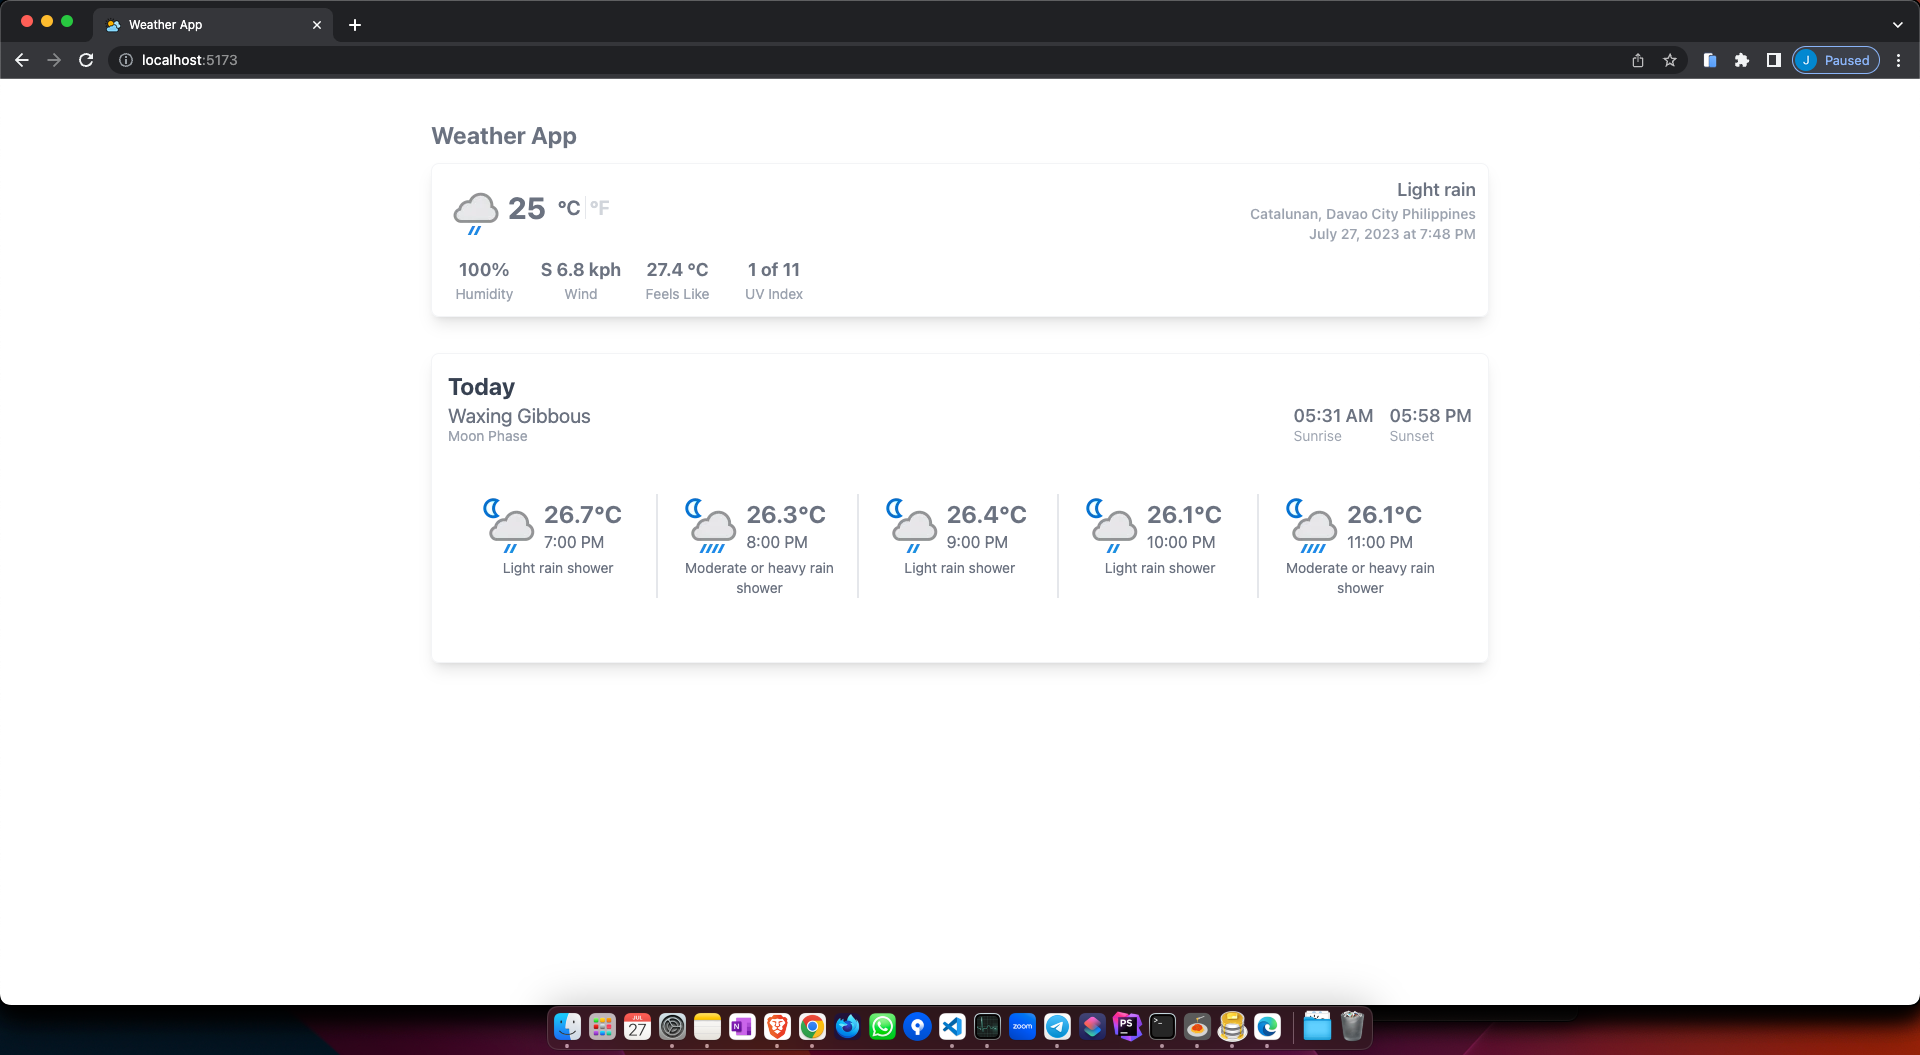
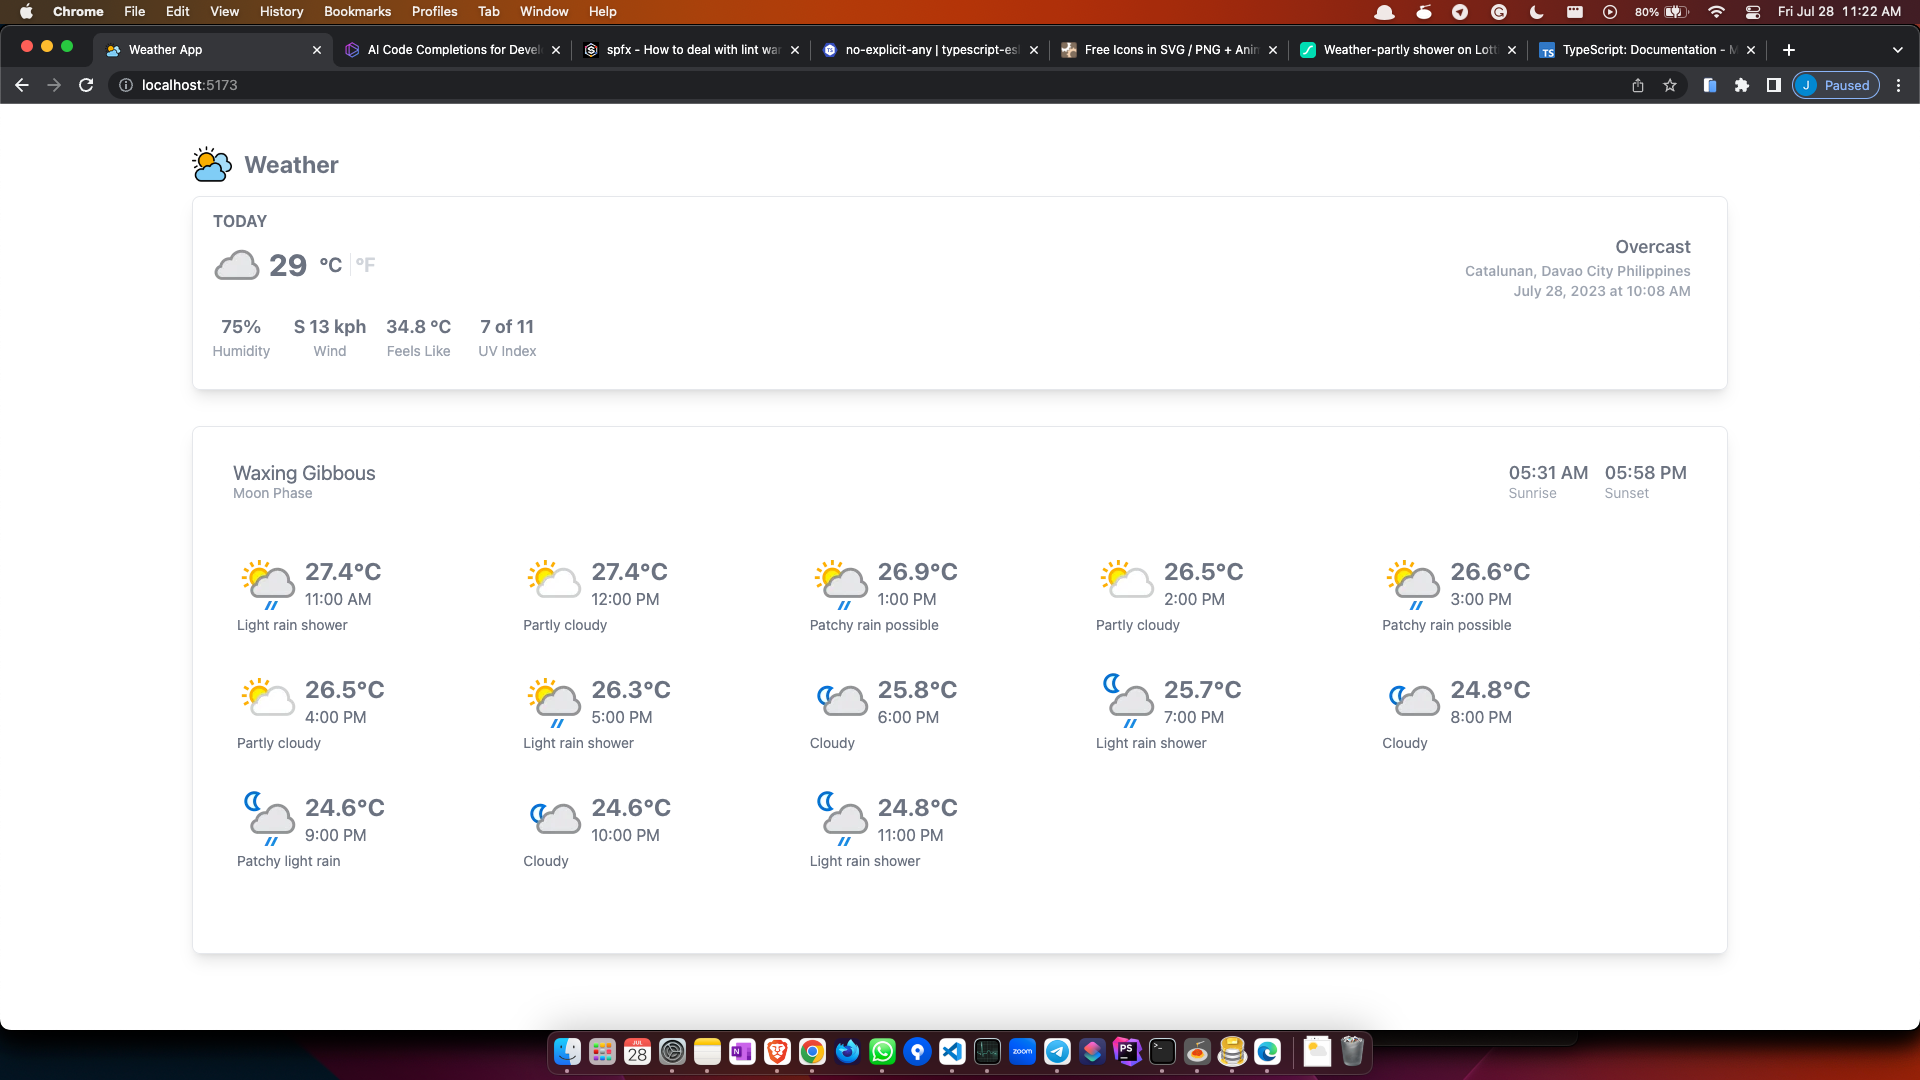
responsive UI

diff --git a/src/components/CurrentComponent.tsx b/src/components/CurrentComponent.tsx
@@ -1,11 +1,13 @@
+import { CurrentWeather, LocationObject } from "../types/weather-api-types";
 import TemperatureComponent from "./TemperatureComponent";
 import WeatherInfoComponent from "./WeatherInfoComponent";
+type SetTypeFunction = (type: string) => void;
 
 export default function CurrentComponent(props: {
   current: CurrentWeather;
   location: LocationObject;
   type: string;
-  setType: Function;
+  setType: SetTypeFunction;
 }) {
   const {
     current: {
@@ -16,7 +18,7 @@ export default function CurrentComponent(props: {
       humidity,
       feelslike_c,
       feelslike_f,
-      uv
+      uv,
     },
     type,
     setType,
@@ -25,47 +27,48 @@ export default function CurrentComponent(props: {
   const changeType = (val: string) => setType(val);
 
   return (
-    <div className="border shadow-lg border-gray-100 p-3 rounded-lg w-full">
-      <div className="grid grid-cols-2 gap-32">
-        <div className="flex flex-col">
-          <div className="flex flex-col md:flex-row space-x-3">
-            <div>
-              <div className="flex items-center">
-                <div>
-                  <img src={`https://${icon}`} />
-                </div>
-                <TemperatureComponent
-                  current={props.current}
-                  type={type}
-                  changeType={changeType}
-                />
+    <div className="border-transparent lg:border lg:shadow-lg border-gray-200 p-3 rounded-lg w-full">
+      <div className="pl-0 lg:pl-2">
+          <h1 className="text-base uppercase font-bold antialiased text-gray-500">Today</h1>
+        </div>
+      <div className="grid grid-cols-1 md:grid-cols-2 gap-x-32 pb-0 lg:pb-4">
+        <div className="flex flex-col md:flex-row space-x-3">
+          <div>
+            <div className="flex items-center justify-start">
+              <div>
+                <img src={`https://${icon}`} />
               </div>
-              <div className="text-sm text-gray-400 mt-4 grid grid-cols-4 gap-4">
-                <div className="text-center">
-                  <div className="text-gray-500 text-lg font-bold antialiased">
-                    {humidity}%
-                  </div>
-                  <div className="text-sm">Humidity</div>
+              <TemperatureComponent
+                current={props.current}
+                type={type}
+                changeType={changeType}
+              />
+            </div>
+            <div className="text-sm text-gray-400 mt-4 grid grid-cols-2 md:grid-cols-4 gap-4">
+              <div className="text-left lg:text-center">
+                <div className="text-gray-500 text-2xl md:text-lg font-bold antialiased">
+                  {humidity}%
                 </div>
-                <div className="text-center">
-                  <div className="text-gray-500 text-lg font-bold antialiased">
-                    {wind_dir}{" "}
-                    {type === "f" ? `${wind_mph} mph` : `${wind_kph} kph`}
-                  </div>
-                  <div className="text-sm">Wind</div>
+                <div className="text-sm">Humidity</div>
+              </div>
+              <div className="text-left lg:text-center">
+                <div className="text-gray-500 text-2xl md:text-lg font-bold antialiased">
+                  {wind_dir}{" "}
+                  {type === "f" ? `${wind_mph} mph` : `${wind_kph} kph`}
                 </div>
-                <div className="text-center">
-                  <div className="text-gray-500 text-lg font-bold antialiased">
-                    {type === "f" ? `${feelslike_f} °F` : `${feelslike_c} °C`} 
-                  </div>
-                  <div className="text-sm">Feels Like</div>
+                <div className="text-sm">Wind</div>
+              </div>
+              <div className="text-left lg:text-center">
+                <div className="text-gray-500 text-2xl md:text-lg font-bold antialiased">
+                  {type === "f" ? `${feelslike_f} °F` : `${feelslike_c} °C`}
                 </div>
-                <div className="text-center">
-                  <div className="text-gray-500 text-lg font-bold antialiased">
-                    {uv} of 11
-                  </div>
-                  <div className="text-sm">UV Index</div>
+                <div className="text-sm">Feels Like</div>
+              </div>
+              <div className="text-left lg:text-center">
+                <div className="text-gray-500 text-2xl md:text-lg font-bold antialiased">
+                  {uv} of 11
                 </div>
+                <div className="text-sm">UV Index</div>
               </div>
             </div>
           </div>

diff --git a/src/types/weather-api-types.ts b/src/types/weather-api-types.ts
@@ -1,10 +1,10 @@
-interface WeatherDataInterface {
+export interface WeatherDataInterface {
   current: CurrentWeather;
   forecast: ForecastObject;
   location: LocationObject;
 }
 
-interface CurrentWeather {
+export interface CurrentWeather {
   cloud: number;
   condition: ConditionObject;
   feelslike_c: number;
@@ -30,17 +30,17 @@ interface CurrentWeather {
   wind_mph: number;
 }
 
-interface ConditionObject {
+export interface ConditionObject {
   text: string;
   icon: string;
   code: number;
 }
 
-interface ForecastObject {
+export interface ForecastObject {
   forecastday: [ForecastDayObject];
 }
 
-interface ForecastDayObject {
+export interface ForecastDayObject {
   date: string;
   date_epoch: number;
   astro: DayAstroObject;
@@ -48,7 +48,7 @@ interface ForecastDayObject {
   hour: [HourObject];
 }
 
-interface DayObject {
+export interface DayObject {
   astro: DayAstroObject;
   avghumidity: number;
   avgtemp_c: number;
@@ -72,7 +72,7 @@ interface DayObject {
   uv: number;
 }
 
-interface DayAstroObject {
+export interface DayAstroObject {
   is_moon_up: number;
   is_sun_up: number;
   moon_illumination: string;
@@ -83,7 +83,7 @@ interface DayAstroObject {
   sunset: string;
 }
 
-interface HourObject {
+export interface HourObject {
   chance_of_rain: number;
   chance_of_snow: number;
   cloud: number;
@@ -119,7 +119,7 @@ interface HourObject {
   windchill_f: number;
 }
 
-interface LocationObject {
+export interface LocationObject {
   country: string;
   lat: number;
   localtime: string;

diff --git a/src/components/ForecastHourListComponent.tsx b/src/components/ForecastHourListComponent.tsx
@@ -1,3 +1,4 @@
+import { ForecastDayObject, ForecastObject, HourObject } from "../types/weather-api-types";
 import ForecastHourItemComponent from "./ForecastHourItemComponent";
 
 export default function ForecastHourListComponent(props: {
@@ -13,11 +14,8 @@ export default function ForecastHourListComponent(props: {
   return (
     <div className="space-y-3">
       {forecastday.map((forecastItem: ForecastDayObject) => (
-        <div key={forecastItem.date_epoch} className="border border-gray-100 p-4 shadow-lg rounded-lg">
-          <div>
-            <h1 className="text-2xl font-bold antialiased text-gray-700">Today</h1>
-          </div>
-          <div className="flex justify-between">
+        <div key={forecastItem.date_epoch} className="md:border md:border-gray-200 p-4 md:shadow-lg rounded-lg">
+          <div className="flex flex-col md:flex-row justify-between pt-4 px-0 md:px-6">
             <div className="flex flex-col">
               <div className="text-gray-500 text-xl">
                 {forecastItem.astro.moon_phase}
@@ -37,7 +35,7 @@ export default function ForecastHourListComponent(props: {
               </div>
             </div>
           </div>
-          <div className="flex flex-wrap mt-10 pb-10 divide-x-2">
+          <div className="grid grid-cols-1 md:grid-cols-2 lg:flex lg:flex-wrap mt-10 pb-10">
             {forecastItem.hour
               .filter(filterTimeInterval)
               .map((hourItem: HourObject) => (

diff --git a/src/App.tsx b/src/App.tsx
@@ -4,6 +4,7 @@ import CurrentComponent from "./components/CurrentComponent";
 import ForecastHourListComponent from "./components/ForecastHourListComponent";
 import CloudyDayImage from "./assets/cloudy-day.png";
 import WeatherLoading from "./assets/animation_loading.gif"
+import { WeatherDataInterface } from "./types/weather-api-types";
 
 const weather_data = window.localStorage.getItem("weather_data");
 
@@ -66,16 +67,16 @@ function App() {
   }
   return (
     <div className="flex justify-center">
-      <div className="space-y-3 mt-10 w-[80%]">
+      <div className="space-y-3 mt-2 lg:mt-10 w-[95%] md:w-[80%]">
         <div className="flex items-center space-x-3">
           <div>
             <img src={CloudyDayImage} className="h-10 w-10" />
           </div>
           <h3 className="text-2xl font-bold antialiased text-gray-500">
-            Weather App
+            Weather
           </h3>
         </div>
-        <div className="flex items-center pb-6">
+        <div className="flex items-center pb-0 md:pb-6">
           <CurrentComponent
             current={weatherData.current}
             location={weatherData.location}

diff --git a/src/components/TemperatureComponent.tsx b/src/components/TemperatureComponent.tsx
@@ -1,6 +1,8 @@
+import { CurrentWeather } from "../types/weather-api-types";
+
 export default function TemperatureComponent(props: {
   current: CurrentWeather;
-  changeType: Function;
+  changeType: (type:string) => void;
   type: string;
 }) {
   const {
@@ -14,14 +16,14 @@ export default function TemperatureComponent(props: {
   return (
     <div className="flex space-x-2">
       <div>
-        <h3 className="text-3xl text-gray-500 font-bold">
+        <h3 className="text-5xl md:text-3xl text-gray-500 font-bold">
           {type === "f" ? temp_f : temp_c}
         </h3>
       </div>
-      <div className="flex items-center">
-        <div className="divide-x text-xl font-semibold text-gray-300">
+      <div className="flex items-start md:items-center">
+        <div className="divide-x text-3xl md:text-xl font-semibold text-gray-300">
           <span
-            className={`px-1 cursor-pointer ${type === "c" && "text-gray-500"}`}
+            className={`px-1 mr-1 cursor-pointer ${type === "c" && "text-gray-500"}`}
             onClick={() => changeType("c")}
           >
             °C

diff --git a/src/components/ForecastHourItemComponent.tsx b/src/components/ForecastHourItemComponent.tsx
@@ -1,3 +1,5 @@
+import { HourObject } from "../types/weather-api-types";
+
 export default function ForecastHourItemComponent(props: {
   hour: HourObject;
   type: string;
@@ -13,9 +15,9 @@ export default function ForecastHourItemComponent(props: {
   } = props;
 
   return (
-    <div className="w-[18%] m-2 pl-5">
-      <div className="flex items-center space-x-1">
-        <div>
+    <div className="w-full lg:w-[18%] m-1 lg:m-2 pl-0 md:pl-5 border-b-2 pb-4 md:border-b-transparent">
+      <div className="flex flex-row items-center space-x-1">
+        <div className="">
           <img src={`https:${icon}`} />
         </div>
         <div className="text-2xl">
@@ -31,7 +33,9 @@ export default function ForecastHourItemComponent(props: {
           </div>
         </div>
       </div>
-      <div className="text-sm text-gray-500 text-center">{text}</div>
+      <div className="text-lg md:text-base lg:text-sm text-gray-500 text-left">
+        {text}
+      </div>
     </div>
   );
 }

diff --git a/src/components/WeatherInfoComponent.tsx b/src/components/WeatherInfoComponent.tsx
@@ -1,3 +1,5 @@
+import { LocationObject } from "../types/weather-api-types";
+
 export default function WeatherInfoComponent(props: {
   type: string;
   location: LocationObject;
@@ -8,10 +10,10 @@ export default function WeatherInfoComponent(props: {
     location: { country, region, name, localtime },
   } = props;
   return (
-    <div className="text-sm flex justify-end text-right text-gray-400">
+    <div className="text-sm flex justify-start md:justify-end text-left md:text-right text-gray-400 mt-4 md:mt-0 pr-0 lg:pr-6">
       <div>
-        <h1 className="text-lg text-gray-500 font-semibold antialiased">{text}</h1>
-        <h5 className="text-gray-400 text-sm font-semibold antialiased">
+        <h1 className="text-xl text-gray-500 font-semibold antialiased">{text}</h1>
+        <h5 className="text-gray-500 text-lg font-semibold antialiased">
           {name}, {region} {country}
         </h5>
         <h6 className="text-sm text-gray-400 font-semibold antialiased">

diff --git a/README.md b/README.md
@@ -1,6 +1,7 @@
 # Weather App (React + TypeScript + Vite)
 
-![My Image](https://github.com/git-jessryll-workspace/weather-app/blob/master/images/weather-app.png)
+![Scrrenshot 1](https://github.com/git-jessryll-workspace/weather-app/blob/master/images/weather-app.png)
+![Scrrenshot 2](https://github.com/git-jessryll-workspace/weather-app/blob/master/images/mobile.png)
 
 Weather API
 https://www.weatherapi.com/docs/
